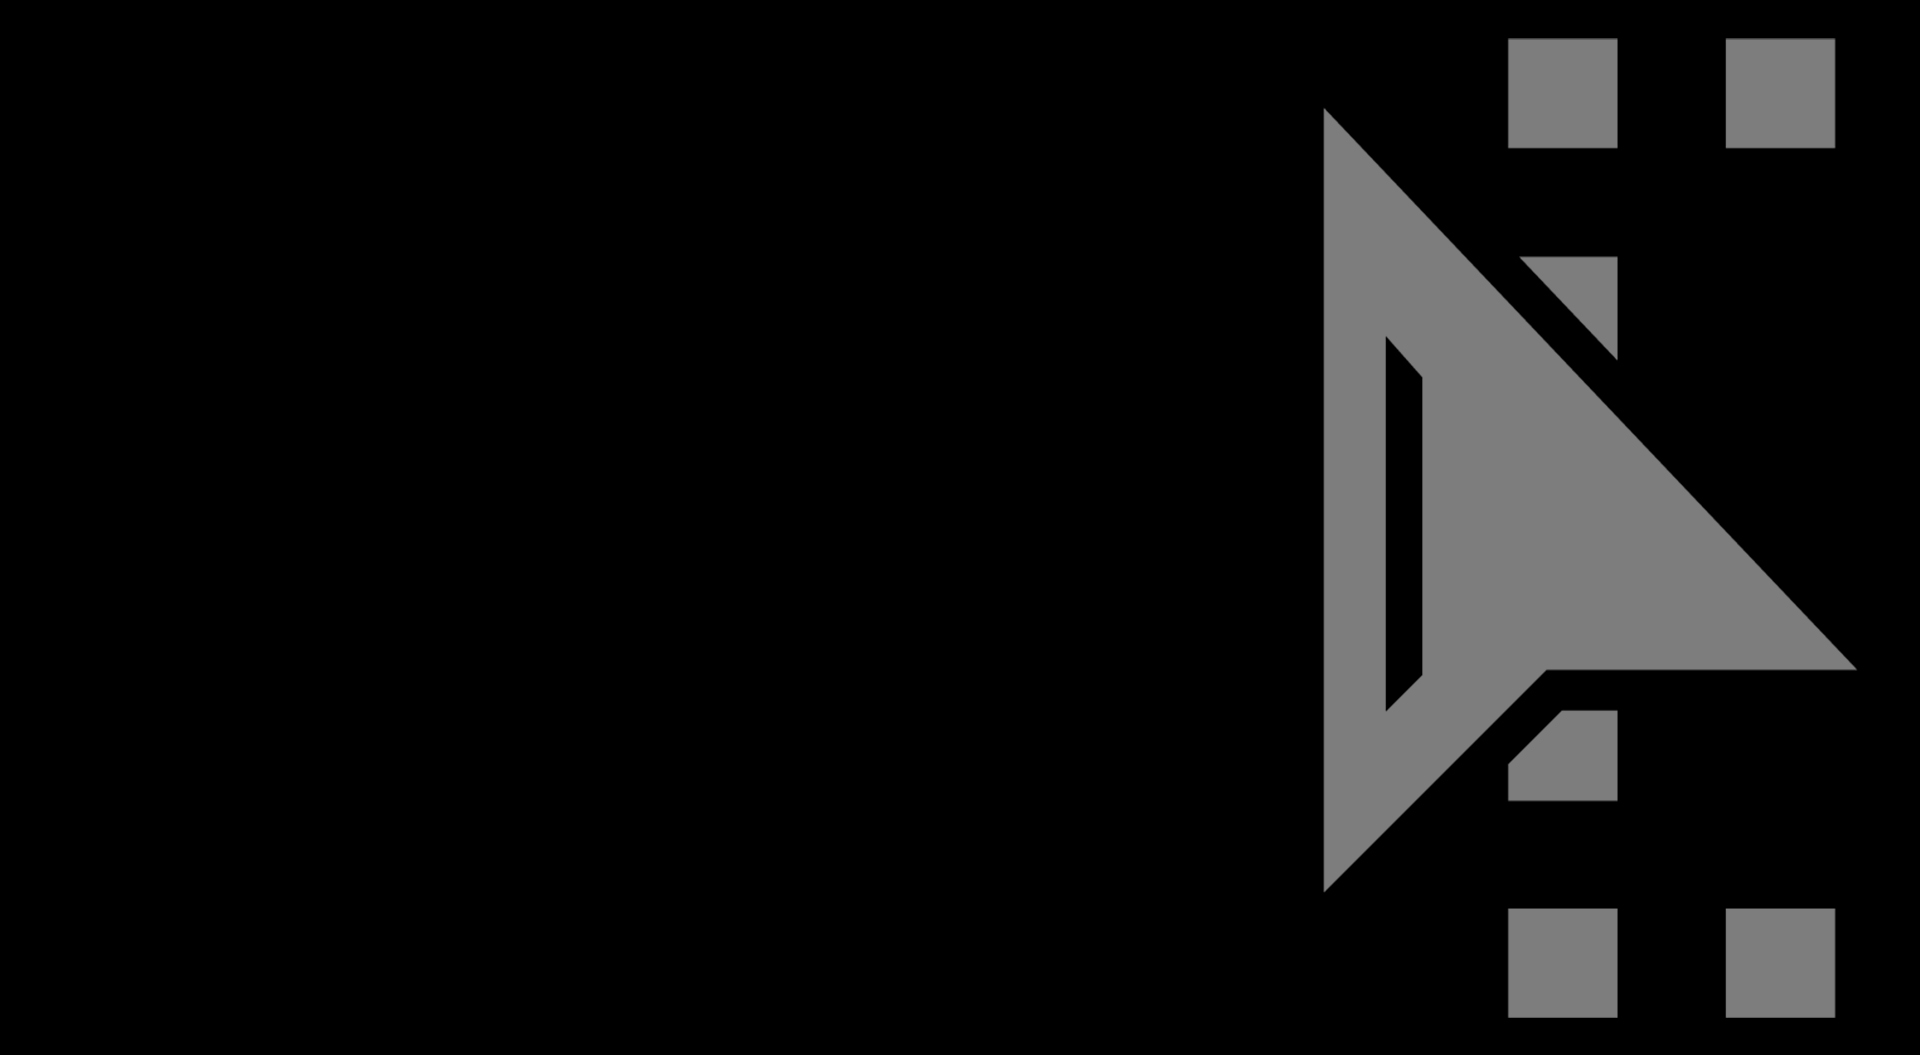
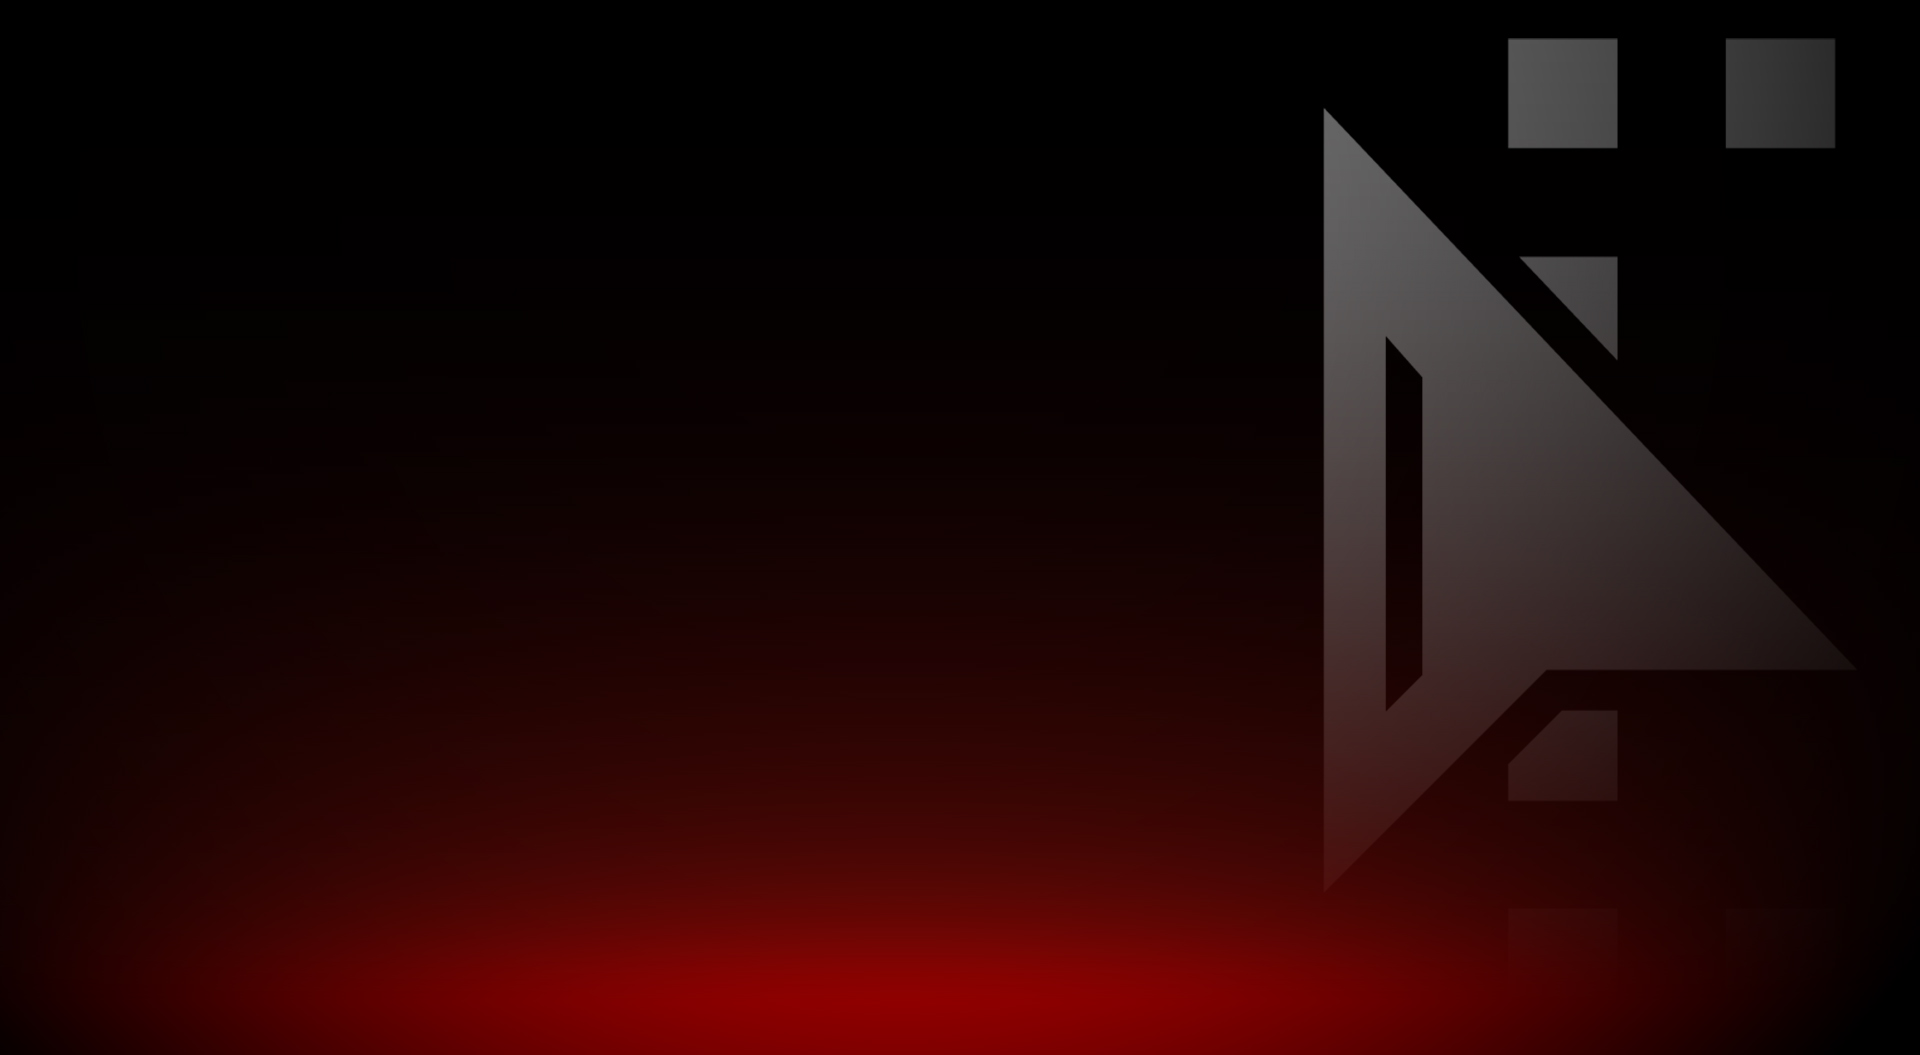
colour correction

diff --git a/index.html b/index.html
@@ -89,6 +89,19 @@
       <div class="table-cell">
         <div class="container">
           <!--<p class="display-6 color-d">Hello, world!</p>-->
+          <br>
+          <br>
+          <br>
+          <br>
+          <br>
+          <br>
+          <br>
+          <br>
+          <br>
+          <br>
+          <br>
+          <br>
+          <br>
           <h1 class="intro-title mb-4">I am Priyathma Pehesara</h1>
           <p class="intro-subtitle"><span class="text-slider-items">CEO Double P Graphics,Graphic Designer,Logo Designer</span><strong class="text-slider"></strong></p>
           <!-- <p class="pt-3"><a class="btn btn-primary btn js-scroll px-4" href="#about" role="button">Learn More</a></p> -->

diff --git a/css/style.css b/css/style.css
@@ -92,7 +92,7 @@ a:hover {
 }
 
 .overlay-mf {
-  background-color: #290000;
+  background-color: #000000;
 }
 
 .overlay-mf {
